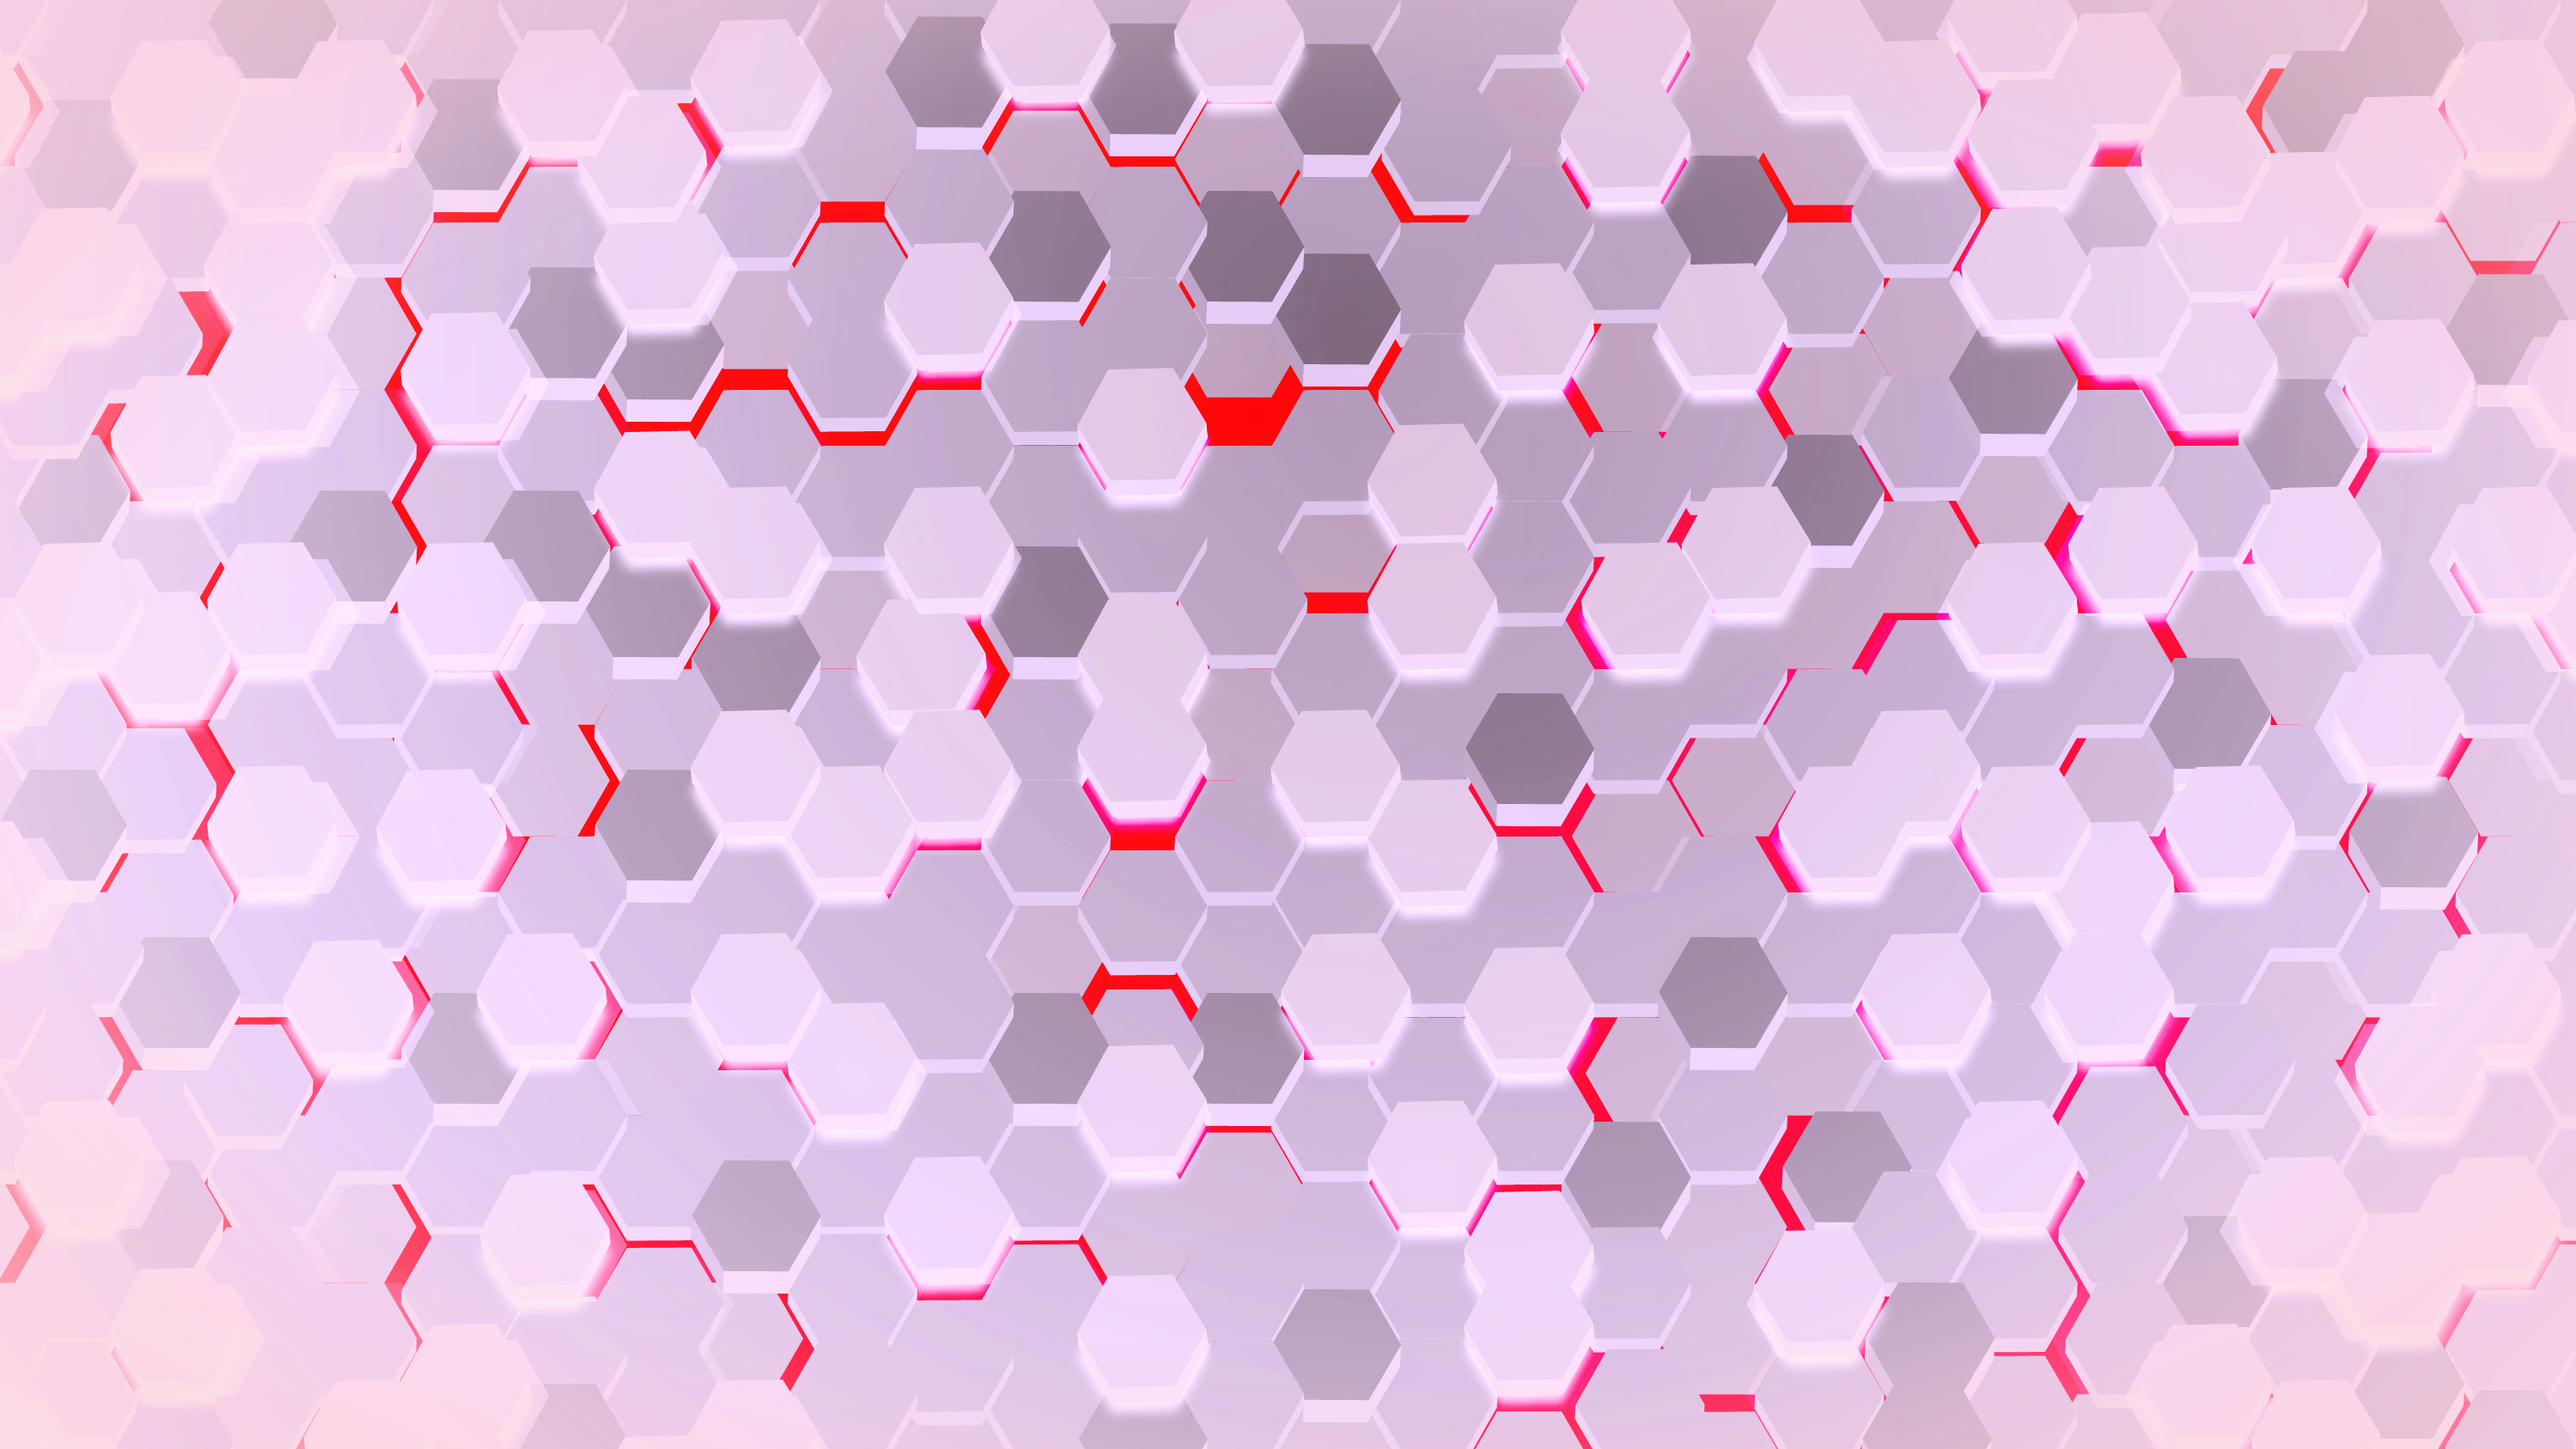
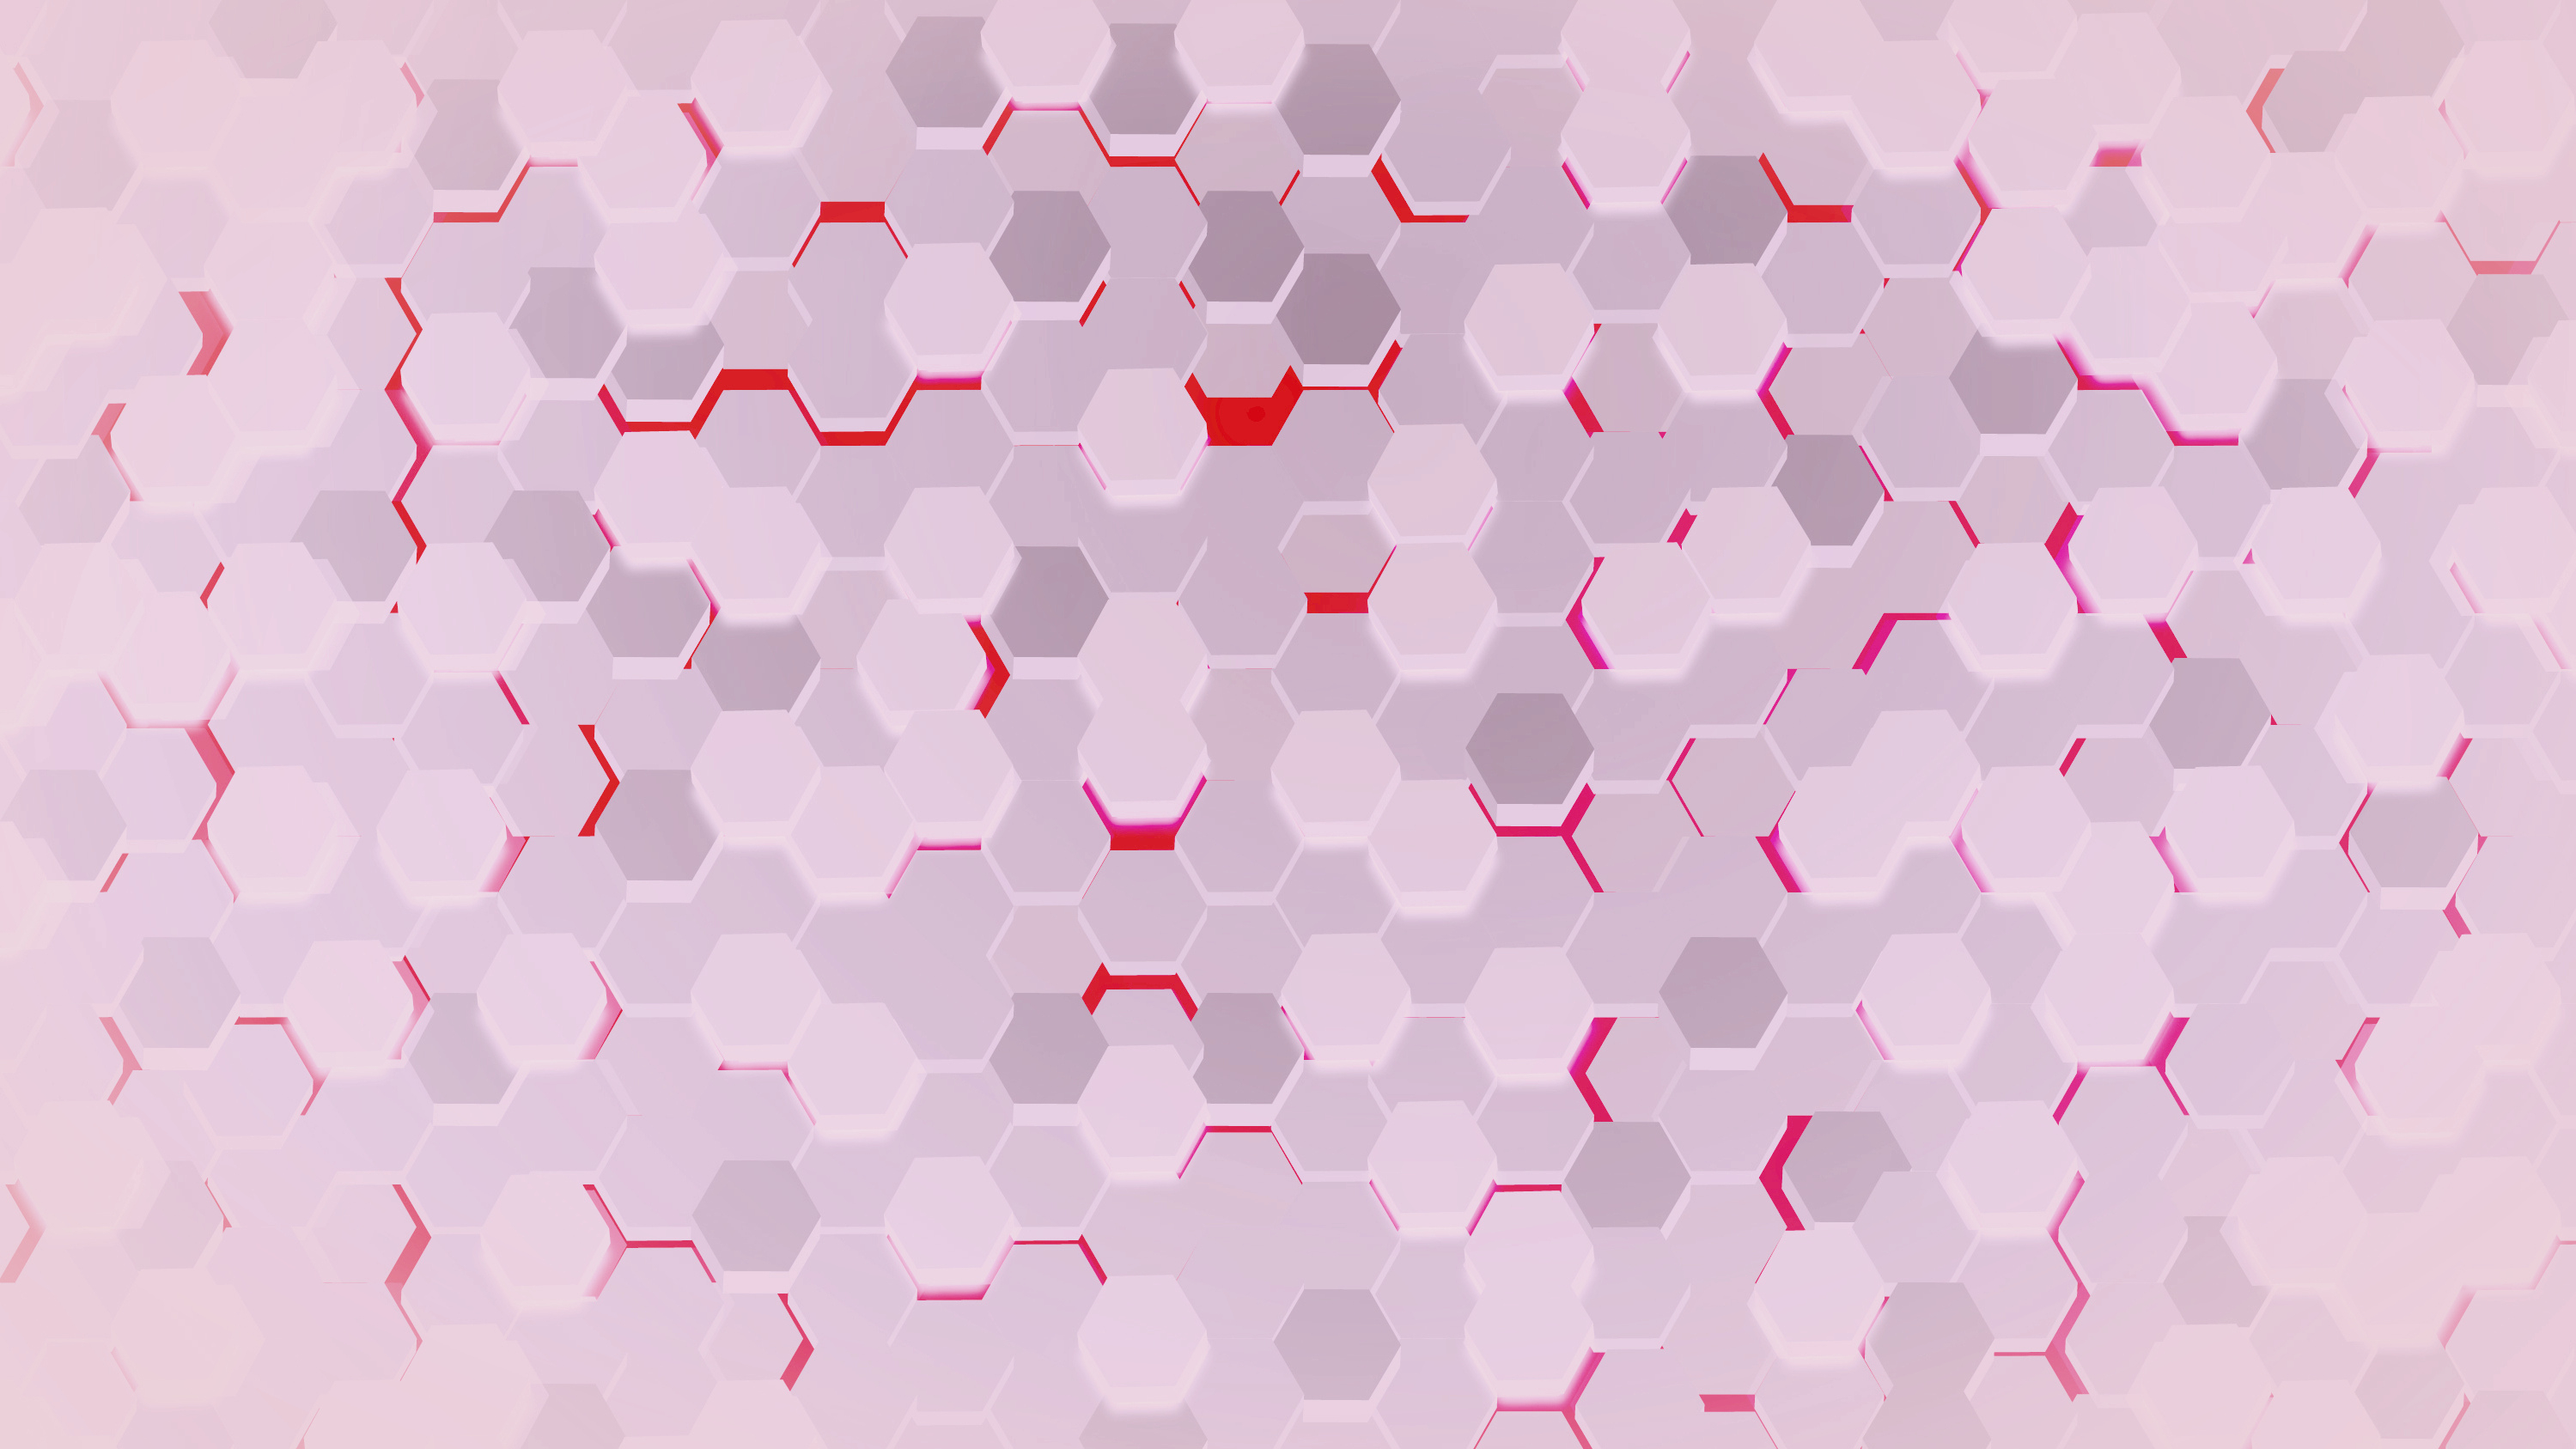
bg for MP

diff --git a/Main3.py b/Main3.py
@@ -127,6 +127,7 @@ def update_gif2(canvas, img, frame_index):
     canvas.itemconfig(bg_img, image=img[frame_index])
     if frame_index==56:
         MP.tkraise()
+        outputframe.tkraise()
         display()
     else:
         root.after(30, update_gif2, canvas, img, (frame_index + 1) % len(img))
@@ -238,6 +239,7 @@ def themeswap():
         sty.configure("info.Outline.TButton",background="black")
         sty.configure("info.TEntry", fieldbackground='black', foreground='white')
 
+        MP_bg.config(image=wp2)
         themebutton1.config(bootstyle='dark, outline')
         themebutton2.config(bootstyle='dark, outline')
         b1.config(style="danger.Outline.TButton")
@@ -290,10 +292,6 @@ def themeswap():
         tag_submit9.config(style="danger.Outline.TButton", image=isend)
 
         table2.configure(bootstyle='danger')
-        Aus2.config(style="danger.TEntry")
-        Apw2.config(style="danger.TEntry")
-        Pus2.config(style="danger.TEntry")
-        Ppw2.config(style="danger.TEntry")
         pe1.config(style="danger.TEntry")
         pe2.config(style="danger.TEntry")
         pe3.config(style="danger.TEntry")
@@ -318,6 +316,7 @@ def themeswap():
         sty.configure("info.Outline.TButton",background="black")
         sty.configure("info.TEntry", fieldbackground='black', foreground='white')
 
+        MP_bg.config(image= wp1)
         themebutton1.config(bootstyle='light, outline')
         themebutton2.config(bootstyle='light, outline')
         b1.config(style="info.Outline.TButton")
@@ -370,10 +369,6 @@ def themeswap():
         tag_submit9.config(style="info.Outline.TButton", image=isend_white)
         
         table2.configure(bootstyle='info')
-        Aus2.config(style="info.TEntry")
-        Apw2.config(style="info.TEntry")
-        Pus2.config(style="info.TEntry")
-        Ppw2.config(style="info.TEntry")
         pe1.config(style="info.TEntry")
         pe2.config(style="info.TEntry")
         pe3.config(style="info.TEntry")
@@ -1077,6 +1072,7 @@ LP_back.pack()
 load2=tb.Label(LP1)
 
 #MP items
+MP_bg=tb.Label(MP,image=wp1)
 MP_title=tb.Label(MP, text= 'Welcome')
 outputframe=tb.Frame(MP)
 
@@ -1113,6 +1109,7 @@ MP_opl5.grid(row= 4, column= 0)
 MP_opl6.grid(row= 5, column= 0)
 MP_opl7.grid(row= 6, column= 0)
 
+MP_bg.place(x=0,y=0)
 MP_title.pack()
 outputframe.pack()
 MP_logout.pack(side='left',anchor='sw', padx=5, pady=5)
